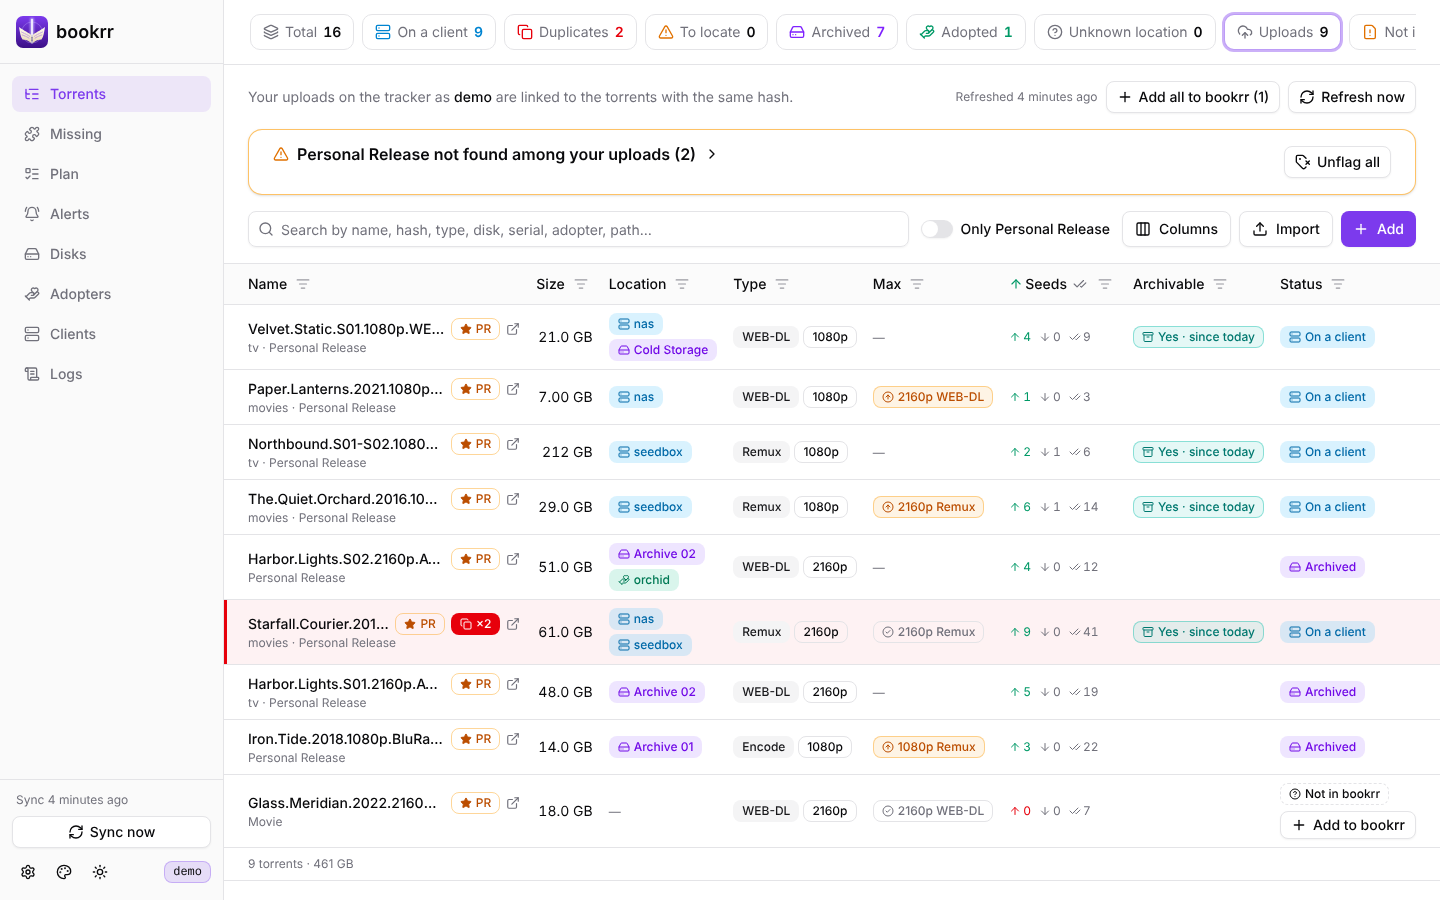
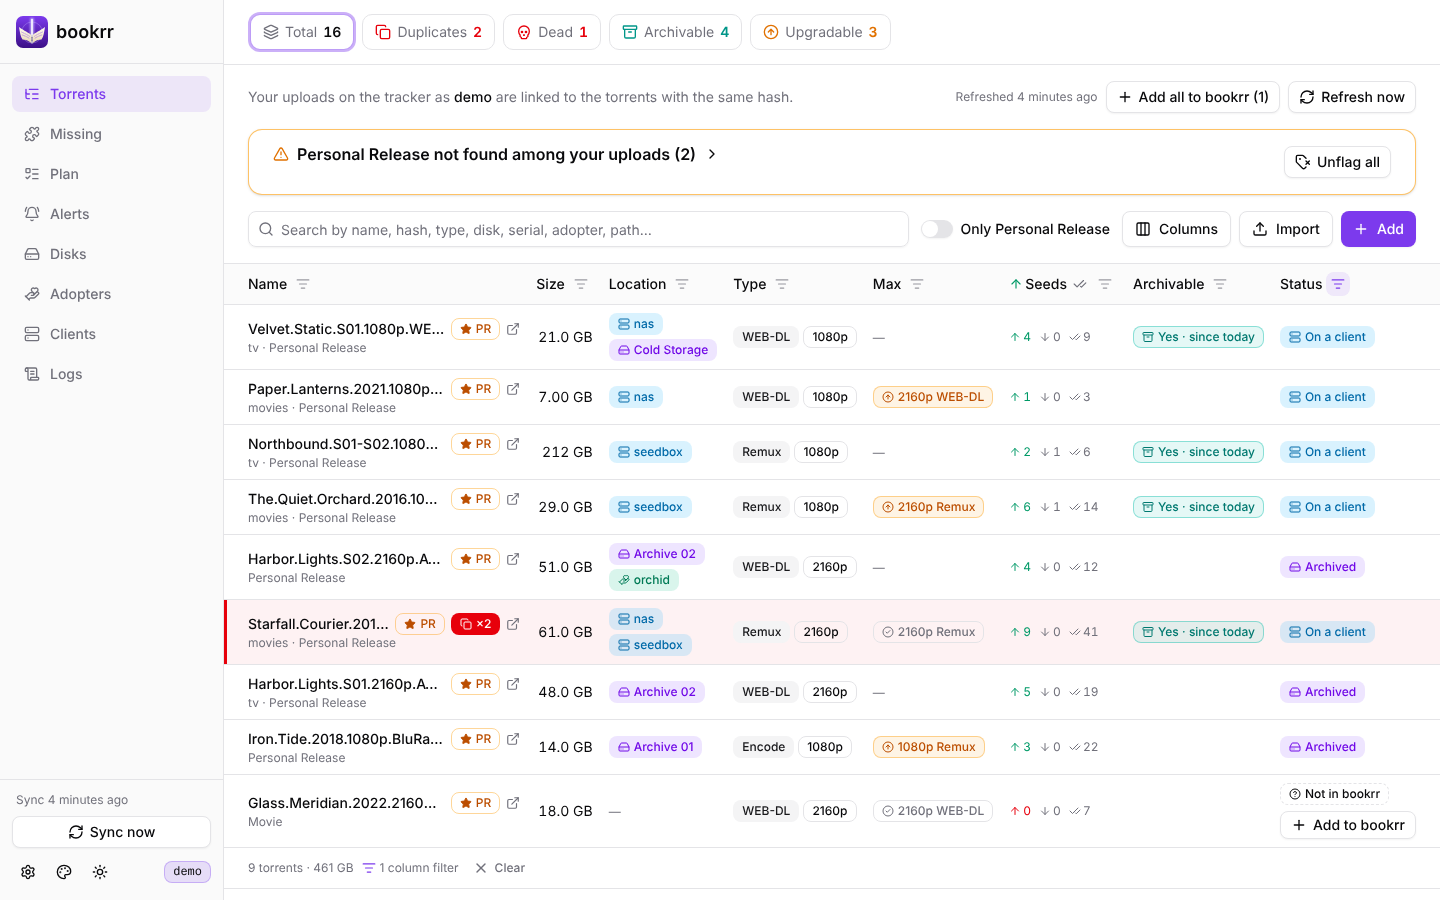
Torrents: fewer counters, location and tracker in the column filters
Only Total and the counters with something to do stay on top (Duplicates,
To locate, Dead, Archivable, Upgradable), each shown only when not zero.
On a client, Archived, Adopted, Unknown location, Uploads, Not in bookrr
and Removed become column filters: Any client / Any disk / Any adopter in
Location, and a Tracker group (Uploaded, Not uploaded, Removed) in Status.
The old #torrents/<counter> addresses open the same list through them.

Claude-Session: https://claude.ai/code/session_019CEh6EUZiXnBr5DmyZD3vJ

Changed region(s): [[0.1875, 0.0, 0.9688, 0.0622], [0.1562, 0.9333, 0.375, 0.9956]]

diff --git a/web/src/components/torrents-page.tsx b/web/src/components/torrents-page.tsx
@@ -8,13 +8,10 @@ import {
   ChevronRight,
   CircleArrowUp,
   CheckCheck,
-  CircleHelp,
-  CloudOff,
   CloudUpload,
   Copy,
   Download,
   ExternalLink,
-  FileWarning,
   HandHeart,
   HardDrive,
   Layers,
@@ -83,24 +80,9 @@ import { formatBytes, formatDate, formatDay, formatRelative, formatState, format
 import { useAction, useAdopters, useClients, useDisks, useInfo, useReleases, useTorrents } from "@/lib/queries"
 import { cn } from "@/lib/utils"
 
-/** The counters on top, each a filter; the ones from "uploads" on need the tracker. */
-export const torrentFilters = [
-  "all",
-  "client",
-  "duplicate",
-  "missing",
-  "archived",
-  "adopted",
-  "unknown",
-  "uploads",
-  "untracked",
-  "removed",
-  "dead",
-  "archivable",
-  "better",
-] as const
-export type TorrentFilter = (typeof torrentFilters)[number]
-type Filter = TorrentFilter
+/** The counters on top, each a filter: besides "all", the torrents with something to do. "dead" needs the tracker. */
+const torrentFilters = ["all", "duplicate", "missing", "dead", "archivable", "better"] as const
+type Filter = (typeof torrentFilters)[number]
 type SortKey = "name" | "size" | "date" | "seeders" | "completed" | "status"
 /** The columns that can be hidden. */
 type Col = "size" | "location" | "type" | "best" | "uploaded" | "peers" | "archivable"
@@ -123,7 +105,25 @@ const noFilters = {
   completed: noRange,
   archivable: [] as string[],
   status: [] as string[],
+  upload: [] as string[],
 }
+
+/**
+ * The counters of the earlier versions, now column filters: their addresses (#torrents/adopted…) open the same list.
+ * "c:*", "d:*" and "a:*" of the Location filter are any client, disk or adopter.
+ */
+const oldFilters: Record<string, Partial<typeof noFilters>> = {
+  client: { where: ["c:*"] },
+  archived: { where: ["d:*"] },
+  adopted: { where: ["a:*"] },
+  unknown: { status: ["unknown"] },
+  uploads: { upload: ["yes"] },
+  untracked: { status: ["untracked"] },
+  removed: { upload: ["removed"] },
+}
+
+/** What can follow "#torrents/" in the address: a counter or a filter of the earlier counters. */
+export const torrentViews: readonly string[] = [...torrentFilters, ...Object.keys(oldFilters)]
 
 /** The filters of each column that can be hidden: hiding it clears them. */
 const colFilters: Record<Col, (keyof typeof noFilters)[]> = {
@@ -149,15 +149,22 @@ const archivableOf = (x: Row) => (x.t ? x.t.archivable : (x.r?.archivable ?? nul
 const nameOf = (x: Row) => x.t?.name ?? x.r?.name ?? ""
 const sizeOf = (x: Row) => x.t?.size || x.r?.size || 0
 
-/** The values a row has for the "Location" filter. */
+/** The values a row has for the "Location" filter: each place, and "c:*", "d:*", "a:*" when on any of that kind. */
 function places(t: Torrent | null) {
   if (!t) return ["none"]
+  const any = (prefix: string, ids: (number | null)[]) => (ids.length > 0 ? [`${prefix}:*`, ...ids.map((id) => `${prefix}:${id}`)] : [])
   const out = [
-    ...t.locations.map((l) => `c:${l.clientId}`),
-    ...t.archives.map((a) => `d:${a.diskId}`),
-    ...t.adoptions.map((a) => `a:${a.adopterId}`),
+    ...any("c", t.locations.map((l) => l.clientId)),
+    ...any("d", t.archives.map((a) => a.diskId)),
+    ...any("a", t.adoptions.map((a) => a.adopterId)),
   ]
   return out.length > 0 ? out : ["none"]
+}
+
+/** The values a row has for the "Upload" filter of the Status column. */
+function uploadFlags(r: TrackerRelease | null) {
+  if (!r) return ["no"]
+  return r.removedAt ? ["yes", "removed"] : ["yes"]
 }
 
 function matches(x: Row, f: Filter) {
@@ -167,24 +174,14 @@ function matches(x: Row, f: Filter) {
       return true
     case "duplicate":
       return !!t?.duplicate
-    case "adopted":
-      return !!t && t.adoptions.length > 0
-    case "archived":
-      return !!t && t.archives.length > 0
-    case "uploads":
-      return !!r
-    case "untracked":
-      return !t
-    case "removed":
-      return !!r?.removedAt
+    case "missing":
+      return t?.status === "missing"
     case "dead":
       return !!r && !r.removedAt && r.seeders === 0
     case "archivable":
       return !!archivableOf(x)?.archivable
     case "better":
       return !!r?.best?.better
-    default:
-      return t?.status === f
   }
 }
 
@@ -248,18 +245,19 @@ const Dash = () => <span className="text-muted-foreground text-xs">—</span>
 
 /**
  * The torrents of bookrr together with the uploads on the UNIT3D tracker: each upload is on the row of the torrent with
- * the same hash, and the uploads bookrr has no torrent for have a row of their own. initialFilter is the counter chosen
- * at first; onFilter tells the counter chosen later (to keep it in the address).
+ * the same hash, and the uploads bookrr has no torrent for have a row of their own. view is what follows "#torrents/" in
+ * the address (one of torrentViews); onFilter tells the counter chosen later (to keep it in the address).
  */
 export function TorrentsPage({
   onResolve,
-  initialFilter = "all",
+  view = "all",
   onFilter,
 }: {
   onResolve: (a: Alert) => void
-  initialFilter?: Filter
+  view?: string
   onFilter?: (f: Filter) => void
 }) {
+  const initialFilter: Filter = (torrentFilters as readonly string[]).includes(view) ? (view as Filter) : "all"
   const torrents = useTorrents()
   const releases = useReleases()
   const clients = useClients()
@@ -270,13 +268,13 @@ export function TorrentsPage({
   const [query, setQuery] = useState("")
   const [onlyPersonal, setOnlyPersonal] = useState(false)
   const [sort, setSort] = useState<{ key: SortKey; desc: boolean }>(
-    initialFilter === "uploads" || initialFilter === "dead" ? { key: "date", desc: true } : { key: "name", desc: false }
+    view === "uploads" || view === "dead" ? { key: "date", desc: true } : { key: "name", desc: false }
   )
   const [page, setPage] = useState(0)
   const [selected, setSelected] = useState<string | null>(null)
   const [adding, setAdding] = useState(false)
   const [importing, setImporting] = useState(false)
-  const columns = useColumnFilters(noFilters, () => setPage(0))
+  const columns = useColumnFilters(noFilters, () => setPage(0), { ...noFilters, ...oldFilters[view] })
   const cf = columns.filters
   const hidden = useHiddenColumns<Col>("bookrr.torrents.hidden-columns")
   const add = useAction((ids: number[]) => api.addReleases(ids))
@@ -341,8 +339,9 @@ export function TorrentsPage({
       if (!rangeMatch(peers?.timesCompleted ?? -1, cf.completed, parseCount)) return false
       const a = archivableOf(x)
       if (!optionsMatch(cf.archivable, a?.archivable ? "yes" : "no", ...(a?.neverArchive ? ["never"] : []))) return false
-      const flags = [statusOf(x), ...(t?.openAlert ? ["alert"] : []), ...(r?.removedAt ? ["removed"] : [])]
+      const flags = [statusOf(x), ...(t?.openAlert ? ["alert"] : [])]
       if (!optionsMatch(cf.status, ...flags)) return false
+      if (!optionsMatch(cf.upload, ...uploadFlags(r))) return false
       if (!q) return true
       return (
         texts.some((s) => !!s && s.toLowerCase().includes(q)) ||
@@ -381,7 +380,9 @@ export function TorrentsPage({
     { id: "peers", label: "Seeds / Completed" },
     { id: "archivable", label: "Archivable" },
   ]
-  const show = (c: Col) => hidden.shows(c) && optional.some((o) => o.id === c)
+  // A column with a filter set shows also when hidden, e.g. Location opened from #torrents/adopted.
+  const show = (c: Col) =>
+    (hidden.shows(c) || colFilters[c].some((k) => isActive(cf[k]))) && optional.some((o) => o.id === c)
   const toggleColumn = (c: Col, visible: boolean) => {
     hidden.toggle(c, visible)
     if (!visible && colFilters[c].some((k) => isActive(cf[k]))) columns.clear(...colFilters[c])
@@ -418,25 +419,16 @@ export function TorrentsPage({
       },
     })
 
-  const stats: { key: Filter; label: string; icon: React.ElementType; tone?: string; tip?: string }[] = [
+  // Besides Total, a counter shows only with something to do (or when chosen): at 0 it would be noise.
+  const counters: { key: Filter; label: string; icon: React.ElementType; tone?: string }[] = [
     { key: "all", label: "Total", icon: Layers },
-    { key: "client", label: "On a client", icon: Server, tone: "text-sky-600 dark:text-sky-400" },
     { key: "duplicate", label: "Duplicates", icon: Copy, tone: "text-destructive" },
     { key: "missing", label: "To locate", icon: TriangleAlert, tone: "text-amber-600 dark:text-amber-400" },
-    { key: "archived", label: "Archived", icon: HardDrive, tone: "text-violet-600 dark:text-violet-400" },
-    { key: "adopted", label: "Adopted", icon: HandHeart, tone: "text-emerald-600 dark:text-emerald-400" },
-    { key: "unknown", label: "Unknown location", icon: CircleHelp },
-    ...(hasTracker
-      ? [
-          { key: "uploads" as const, label: "Uploads", icon: CloudUpload },
-          { key: "untracked" as const, label: "Not in bookrr", icon: FileWarning, tone: "text-amber-600 dark:text-amber-400" },
-          { key: "removed" as const, label: "Removed", icon: CloudOff, tone: "text-destructive" },
-          { key: "dead" as const, label: "Dead", icon: Skull, tone: "text-destructive" },
-        ]
-      : []),
+    ...(hasTracker ? [{ key: "dead" as const, label: "Dead", icon: Skull, tone: "text-destructive" }] : []),
     { key: "archivable", label: "Archivable", icon: Archive, tone: archivableTone },
     ...(best ? [{ key: "better" as const, label: "Upgradable", icon: CircleArrowUp, tone: "text-amber-600 dark:text-amber-400" }] : []),
   ]
+  const stats = counters.filter((s) => s.key === "all" || s.key === filter || counts[s.key] > 0)
 
   return (
     <div className="grid grid-cols-[minmax(0,1fr)] gap-4">
@@ -558,17 +550,17 @@ export function TorrentsPage({
                     <ColumnFilter label="Location" active={isActive(cf.where)} onClear={() => columns.clear("where")}>
                       {(
                         [
-                          ["Client", (clients.data ?? []).map((c) => ({ value: `c:${c.id}`, label: <><Server /> {c.name}</> }))],
-                          ["Disks", (disks.data ?? []).map((d) => ({ value: `d:${d.id}`, label: <><HardDrive /> {d.label}</> }))],
-                          ["Adopters", (adopters.data ?? []).map((a) => ({ value: `a:${a.id}`, label: <><HandHeart /> {a.name}</> }))],
+                          ["Client", "c", "Any client", (clients.data ?? []).map((c) => ({ value: `c:${c.id}`, label: <><Server /> {c.name}</> }))],
+                          ["Disks", "d", "Any disk", (disks.data ?? []).map((d) => ({ value: `d:${d.id}`, label: <><HardDrive /> {d.label}</> }))],
+                          ["Adopters", "a", "Any adopter", (adopters.data ?? []).map((a) => ({ value: `a:${a.id}`, label: <><HandHeart /> {a.name}</> }))],
                         ] as const
                       )
-                        .filter(([, options]) => options.length > 0)
-                        .map(([title, options]) => (
+                        .filter(([, , , options]) => options.length > 0)
+                        .map(([title, prefix, any, options]) => (
                           <OptionsFilter
                             key={title}
                             title={title}
-                            options={options}
+                            options={[{ value: `${prefix}:*`, label: <span className="font-medium">{any}</span> }, ...options]}
                             value={cf.where}
                             onChange={(v) => columns.set("where", v)}
                           />
@@ -718,19 +710,19 @@ export function TorrentsPage({
                   <button className="flex items-center gap-1" onClick={() => toggleSort("status")}>
                     Status <SortIcon k="status" />
                   </button>
-                  <ColumnFilter label="Status" align="end" active={isActive(cf.status)} onClear={() => columns.clear("status")}>
+                  <ColumnFilter
+                    label="Status"
+                    align="end"
+                    active={isActive(cf.status) || isActive(cf.upload)}
+                    onClear={() => columns.clear("status", "upload")}
+                  >
                     <OptionsFilter
                       options={[
                         ...(["client", "missing", "archived", "adopted", "unknown"] as const).map((st) => ({
                           value: st,
                           label: <ReleaseStatusBadge status={st} />,
                         })),
-                        ...(hasTracker
-                          ? [
-                              { value: "untracked", label: <ReleaseStatusBadge status="untracked" /> },
-                              { value: "removed", label: <RemovedBadge /> },
-                            ]
-                          : []),
+                        ...(hasTracker ? [{ value: "untracked", label: <ReleaseStatusBadge status="untracked" /> }] : []),
                         {
                           value: "alert",
                           label: (
@@ -743,6 +735,18 @@ export function TorrentsPage({
                       value={cf.status}
                       onChange={(v) => columns.set("status", v)}
                     />
+                    {(hasTracker || isActive(cf.upload)) && (
+                      <OptionsFilter
+                        title="Tracker"
+                        options={[
+                          { value: "yes", label: <><CloudUpload /> Uploaded</> },
+                          { value: "no", label: "Not uploaded" },
+                          { value: "removed", label: <RemovedBadge /> },
+                        ]}
+                        value={cf.upload}
+                        onChange={(v) => columns.set("upload", v)}
+                      />
+                    )}
                   </ColumnFilter>
                 </div>
               </TableHead>

diff --git a/web/src/App.tsx b/web/src/App.tsx
@@ -13,7 +13,7 @@ import { NavbarSlot } from "@/components/navbar-stats"
 import { PlanPage } from "@/components/plan-page"
 import { ResolveDialog } from "@/components/resolve-dialog"
 import { Sidebar, type NavItem } from "@/components/sidebar"
-import { torrentFilters, TorrentsPage, type TorrentFilter } from "@/components/torrents-page"
+import { TorrentsPage, torrentViews } from "@/components/torrents-page"
 import { Sheet, SheetContent, SheetTitle } from "@/components/ui/sheet"
 import type { Alert } from "@/lib/api"
 import { useAlerts } from "@/lib/queries"
@@ -21,13 +21,13 @@ import { useAlerts } from "@/lib/queries"
 const tabs = ["torrents", "missing", "plan", "alerts", "disks", "adopters", "clients", "logs"] as const
 type Tab = (typeof tabs)[number]
 
-type Route = { tab: Tab; diskId: number | null; missingView: MissingView; torrentFilter: TorrentFilter }
+type Route = { tab: Tab; diskId: number | null; missingView: MissingView; torrentView: string }
 
 /** The pages Releases and Dead of the earlier versions, now counters of the torrents. */
-const oldTabs: Record<string, TorrentFilter> = { releases: "uploads", dead: "dead" }
+const oldTabs: Record<string, string> = { releases: "uploads", dead: "dead" }
 
 /**
- * "#torrents" or "#torrents/dead" (the torrents with that counter chosen);
+ * "#torrents" or "#torrents/dead" (the torrents with that counter chosen, or a filter of the earlier counters);
  * "#disks" or "#disks/3" (the torrents archived on disk 3, the target of its QR code);
  * "#missing" (the series), "#missing/sagas" or "#missing/lists".
  */
@@ -41,12 +41,12 @@ function routeFromHash(): Route {
   const tab = (tabs as readonly string[]).includes(h) ? (h as Tab) : "torrents"
   const diskId = tab === "disks" && /^\d+$/.test(id ?? "") ? Number(id) : null
   const missingView = tab === "missing" && (id === "sagas" || id === "lists") ? id : "series"
-  const torrentFilter = tab === "torrents" && (torrentFilters as readonly string[]).includes(id) ? (id as TorrentFilter) : "all"
-  return { tab, diskId, missingView, torrentFilter }
+  const torrentView = tab === "torrents" && torrentViews.includes(id) ? id : "all"
+  return { tab, diskId, missingView, torrentView }
 }
 
 export default function App() {
-  const [{ tab, diskId, missingView, torrentFilter }, setRoute] = useState<Route>(routeFromHash)
+  const [{ tab, diskId, missingView, torrentView }, setRoute] = useState<Route>(routeFromHash)
   const [resolving, setResolving] = useState<Alert[]>([])
   const [menuOpen, setMenuOpen] = useState(false)
   const [slot, setSlot] = useState<HTMLDivElement | null>(null)
@@ -111,8 +111,8 @@ export default function App() {
             <AlertsBanner alerts={alerts.data ?? []} onResolve={resolveOne} onShowAll={() => go("alerts")} />
             {tab === "torrents" && (
               <TorrentsPage
-                key={torrentFilter}
-                initialFilter={torrentFilter}
+                key={torrentView}
+                view={torrentView}
                 onResolve={resolveOne}
                 // Keeps the counter in the address without opening the page again.
                 onFilter={(f) => window.history.replaceState(null, "", f === "all" ? "#torrents" : `#torrents/${f}`)}

diff --git a/web/src/components/column-filter.tsx b/web/src/components/column-filter.tsx
@@ -22,10 +22,10 @@ export function isActive(v: unknown): boolean {
 
 /**
  * The filters of the columns of a table, one entry per filter. `onChange` runs on every change,
- * to go back to the first page.
+ * to go back to the first page; `initial` are the filters at first (otherwise none).
  */
-export function useColumnFilters<T extends object>(empty: T, onChange?: () => void) {
-  const [filters, setFilters] = useState<T>(empty)
+export function useColumnFilters<T extends object>(empty: T, onChange?: () => void, initial: T = empty) {
+  const [filters, setFilters] = useState<T>(initial)
   const set = <K extends keyof T>(key: K, value: T[K]) => {
     setFilters((f) => ({ ...f, [key]: value }))
     onChange?.()

diff --git a/docs/en/tracker.md b/docs/en/tracker.md
@@ -28,7 +28,7 @@ The saved `.torrent` file is also at `GET /api/torrents/{hash}/torrent-file`. Th
 
 ![Your uploads on the Torrents page](../screenshots/releases.png)
 
-The **Torrents** page also shows **every torrent you uploaded** (not only those with the tracker's Personal Release flag, anonymous ones included): each upload is on the row of the bookrr torrent with the same hash, and the uploads bookrr knows no torrent for have a row of their own, with the status **Not in bookrr**. The tracker adds the **Type** (WEB-DL, Remux, Encode… and resolution) and **Uploaded** columns, seeders, leechers and completed downloads, and the link to the tracker page. The counters **Uploads** (all your uploads, newest first), **Not in bookrr**, **Removed** (no longer on the tracker) and **Dead** (still on the tracker, but nobody seeds them: seed them again from a client or an archive) filter the list. With **Columns** you choose which columns to show; the browser remembers the choice. The old addresses `#releases` and `#dead` open the Torrents page with the Uploads or Dead counter chosen.
+The **Torrents** page also shows **every torrent you uploaded** (not only those with the tracker's Personal Release flag, anonymous ones included): each upload is on the row of the bookrr torrent with the same hash, and the uploads bookrr knows no torrent for have a row of their own, with the status **Not in bookrr**. The tracker adds the **Type** (WEB-DL, Remux, Encode… and resolution) and **Uploaded** columns, seeders, leechers and completed downloads, and the link to the tracker page. The **Dead** counter shows the uploads still on the tracker that nobody seeds (seed them again from a client or an archive); the filter of the **Status** column has *Not in bookrr* and, under *Tracker*, *Uploaded*, *Not uploaded* and *Removed* (no longer on the tracker). With **Columns** you choose which columns to show; the browser remembers the choice. The old addresses `#releases` and `#dead` still work: the first opens the list filtered on *Uploaded*, newest first.
 
 ```mermaid
 sequenceDiagram

diff --git a/docs/it/tracker.md b/docs/it/tracker.md
@@ -28,7 +28,7 @@ Il file `.torrent` salvato si scarica anche da `GET /api/torrents/{hash}/torrent
 
 ![I tuoi upload nella pagina Torrents](../screenshots/releases.png)
 
-La pagina **Torrents** mostra anche **tutti i torrent che hai caricato** (non solo quelli con il flag Personal Release del tracker, anche gli anonimi): ogni upload sta sulla riga del torrent di bookrr con lo stesso hash, e gli upload di cui bookrr non conosce il torrent hanno una riga tutta loro, con lo stato **Not in bookrr**. Il tracker aggiunge le colonne **Type** (WEB-DL, Remux, Encode… e risoluzione) e **Uploaded**, seeder, leecher e completati, e il link alla pagina sul tracker. I contatori **Uploads** (tutti i tuoi upload, dal più recente), **Not in bookrr**, **Removed** (non più sul tracker) e **Dead** (ancora sul tracker, ma nessuno li ha in seed: rimettili in seed da un client o da un archivio) filtrano l'elenco. Con **Columns** scegli quali colonne vedere; il browser ricorda la scelta. I vecchi indirizzi `#releases` e `#dead` aprono la pagina Torrents con il contatore Uploads o Dead.
+La pagina **Torrents** mostra anche **tutti i torrent che hai caricato** (non solo quelli con il flag Personal Release del tracker, anche gli anonimi): ogni upload sta sulla riga del torrent di bookrr con lo stesso hash, e gli upload di cui bookrr non conosce il torrent hanno una riga tutta loro, con lo stato **Not in bookrr**. Il tracker aggiunge le colonne **Type** (WEB-DL, Remux, Encode… e risoluzione) e **Uploaded**, seeder, leecher e completati, e il link alla pagina sul tracker. Il contatore **Dead** mostra gli upload ancora sul tracker che nessuno ha in seed (rimettili in seed da un client o da un archivio); il filtro della colonna **Status** ha *Not in bookrr* e, sotto *Tracker*, *Uploaded*, *Not uploaded* e *Removed* (non più sul tracker). Con **Columns** scegli quali colonne vedere; il browser ricorda la scelta. I vecchi indirizzi `#releases` e `#dead` funzionano ancora: il primo apre l'elenco filtrato su *Uploaded*, dal più recente.
 
 ```mermaid
 sequenceDiagram

diff --git a/docs/it/README.md b/docs/it/README.md
@@ -22,7 +22,7 @@ Installazione e configurazione sono nel [README](../../README.it.md#installazion
 
 ## L'interfaccia
 
-Il menu a sinistra ha una pagina per ogni parte di bookrr; i contatori in cima a una pagina filtrano il suo elenco. ⚙ in basso a sinistra apre **Settings**, 🎨 sceglie il colore del logo e dei pulsanti (il colore di una spada laser, ricordato dal browser), ☀ il tema chiaro, scuro o di sistema.
+Il menu a sinistra ha una pagina per ogni parte di bookrr; i contatori in cima a una pagina filtrano il suo elenco. In **Torrents**, oltre a *Total*, sono i torrent con qualcosa da fare (*Duplicates*, *To locate*, *Dead*, *Archivable*, *Upgradable*) e compaiono solo quando ce ne sono; dove sta un torrent, o il suo stato, lo filtri dalla colonna **Location** (anche *Any client*, *Any disk*, *Any adopter*) e dalla colonna **Status**. ⚙ in basso a sinistra apre **Settings**, 🎨 sceglie il colore del logo e dei pulsanti (il colore di una spada laser, ricordato dal browser), ☀ il tema chiaro, scuro o di sistema.
 
 <p align="center">
   <img src="../logo/bookrr-viola.svg" alt="Viola" width="48">

diff --git a/docs/en/README.md b/docs/en/README.md
@@ -22,7 +22,7 @@ Installation and configuration are in the [README](../../README.md#installation)
 
 ## The interface
 
-The menu on the left has a page for each part of bookrr; the counters at the top of a page filter its list. ⚙ at the bottom left opens **Settings**, 🎨 picks the color of the logo and the buttons (a lightsaber color, remembered by the browser), ☀ the light, dark or system theme.
+The menu on the left has a page for each part of bookrr; the counters at the top of a page filter its list. On **Torrents**, besides *Total*, they are the torrents with something to do (*Duplicates*, *To locate*, *Dead*, *Archivable*, *Upgradable*) and show only when there are some; where a torrent is, or its status, you filter from the **Location** column (also *Any client*, *Any disk*, *Any adopter*) and the **Status** column. ⚙ at the bottom left opens **Settings**, 🎨 picks the color of the logo and the buttons (a lightsaber color, remembered by the browser), ☀ the light, dark or system theme.
 
 <p align="center">
   <img src="../logo/bookrr-viola.svg" alt="Purple" width="48">
